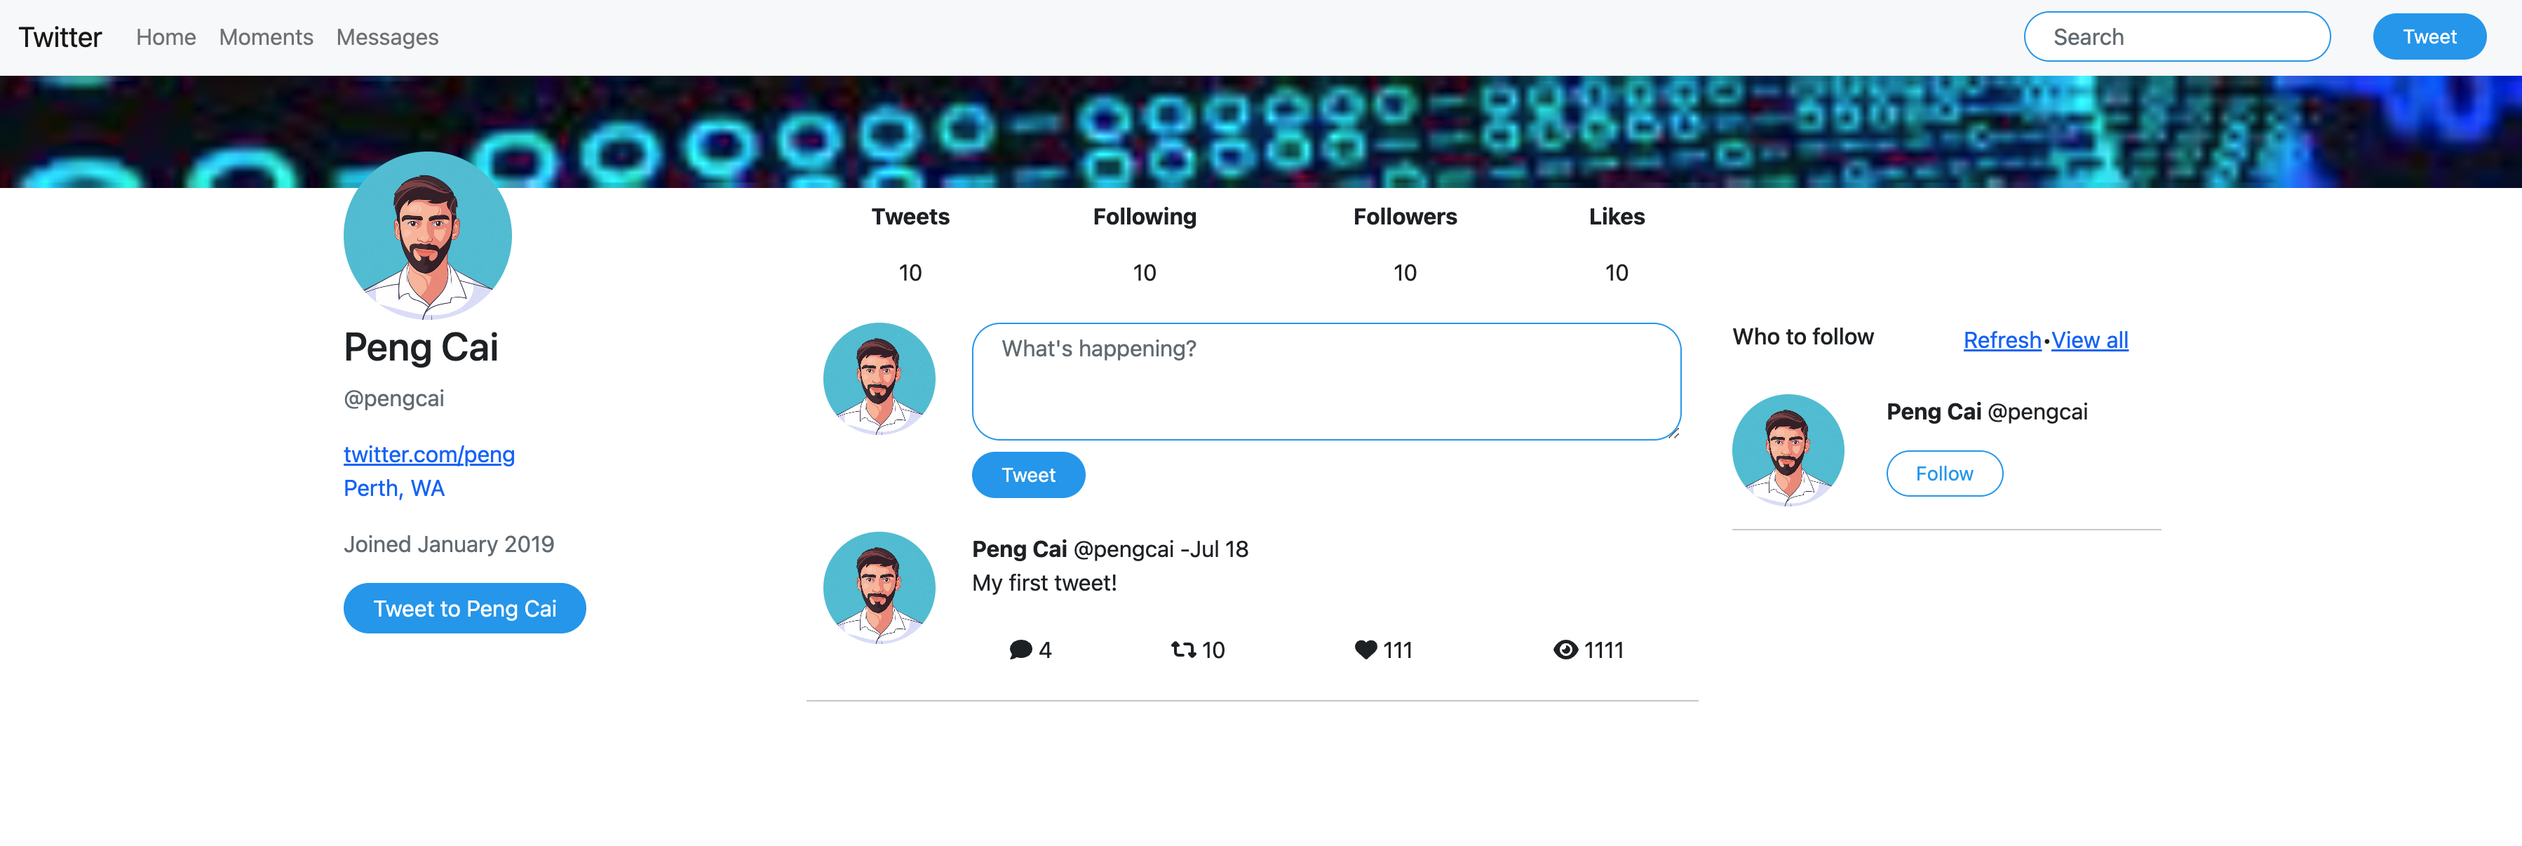
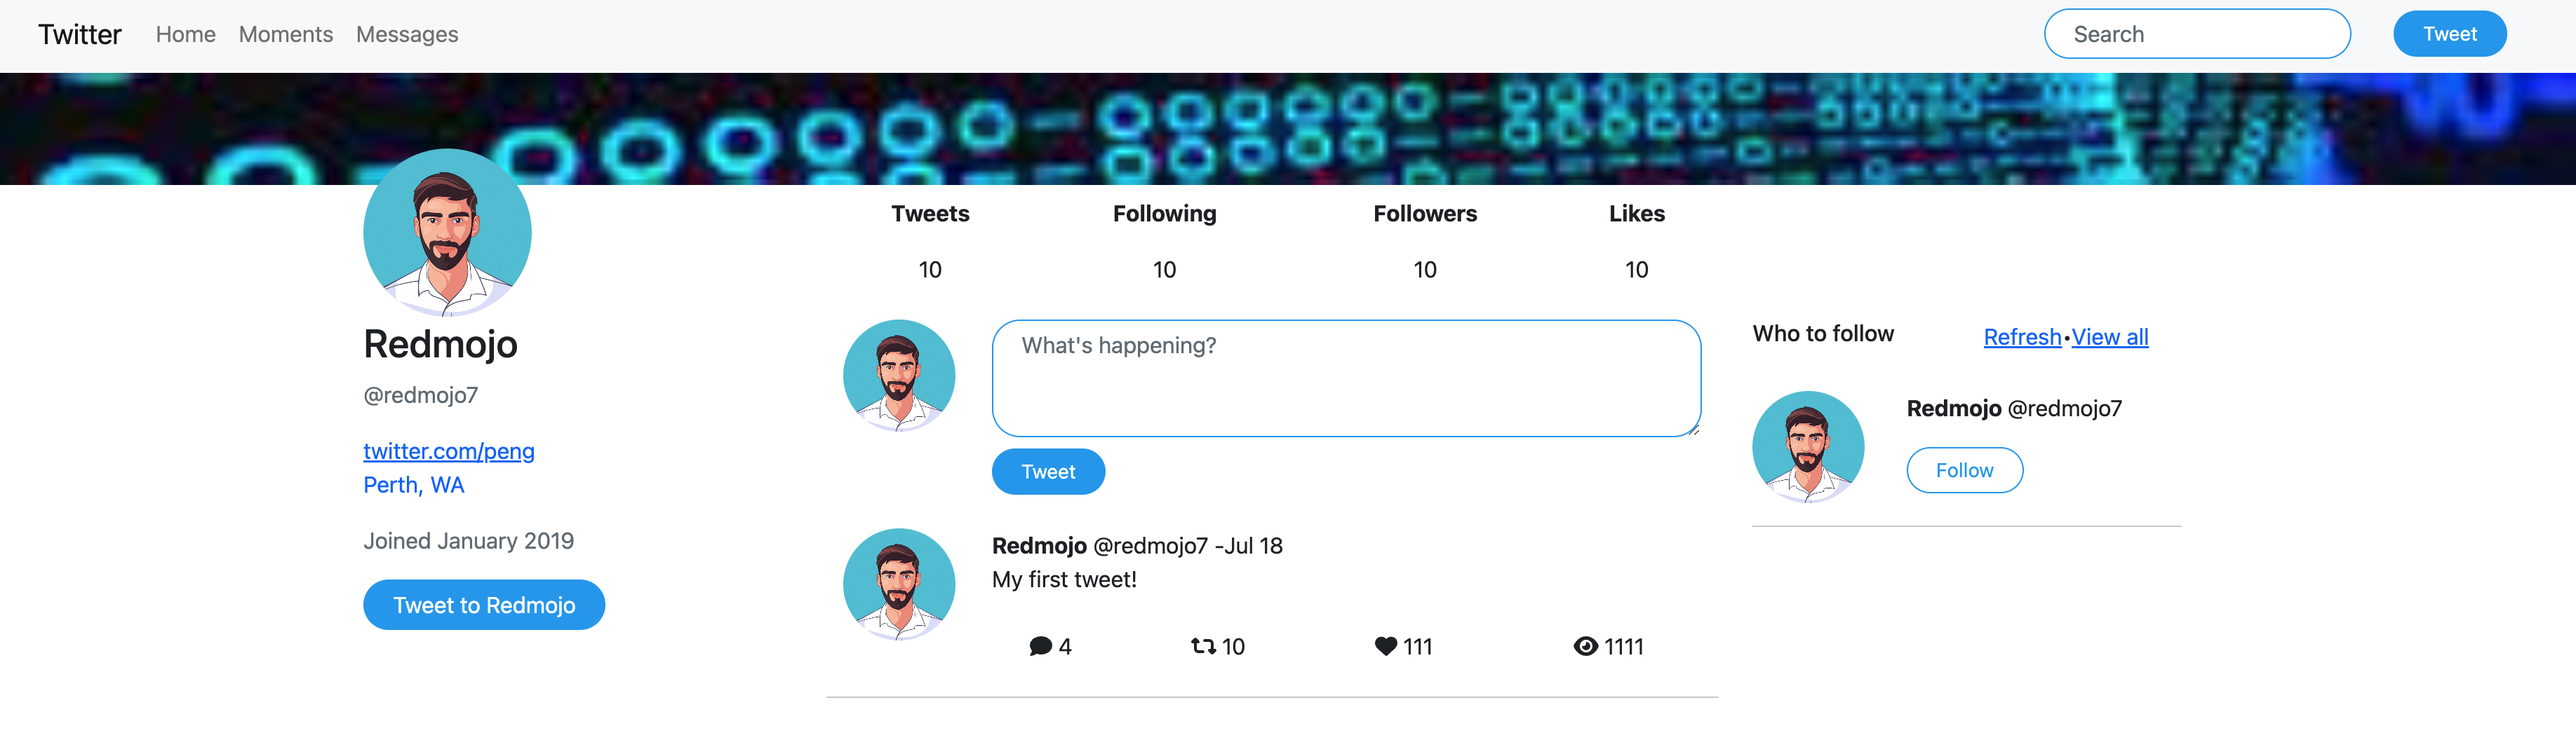
update justtweet_screenshot

diff --git a/src/components/profileinfo.js b/src/components/profileinfo.js
@@ -4,12 +4,12 @@ class ProfileInfo extends Component {
   render() {
     return (
       <div className="text-left">
-        <h3>Peng Cai</h3>
-        <p className="text-secondary">@pengcai</p>
+        <h3>Redmojo</h3>
+        <p className="text-secondary">@redmojo7</p>
         <a href="#">twitter.com/peng</a>
         <p className="text-primary">Perth, WA</p>
         <p className="text-secondary">Joined January 2019</p>
-        <button className="btn twitter-button" >Tweet to Peng Cai</button>
+        <button className="btn twitter-button" >Tweet to Redmojo</button>
       </div>
     );
   }

diff --git a/src/components/tweetcard.js b/src/components/tweetcard.js
@@ -17,7 +17,7 @@ class TweetCard extends Component {
                         <img src={avartaImage} className="avarta-image" alt="avarta Image" />
                     </div>
                     <div className="col-md-10">
-                        <strong>Peng Cai</strong> @pengcai -Jul 18
+                        <strong>Redmojo</strong> @redmojo7 -Jul 18
                         <p>My first tweet!</p>
                         <div className="row">
                             <table className="table table-borderless">

diff --git a/src/components/rightpanel.js b/src/components/rightpanel.js
@@ -23,7 +23,7 @@ class RightPanel extends Component {
                     <div className="col-md-2 text-left">
                     </div>
                     <div className="col-md-8 text-right">
-                        <p><strong>Peng Cai </strong>@pengcai</p>
+                        <p><strong>Redmojo </strong>@redmojo7</p>
                         <div className="mt-2">
                             <button className="btn btn-sm follow-button" >Follow</button>
                         </div>
